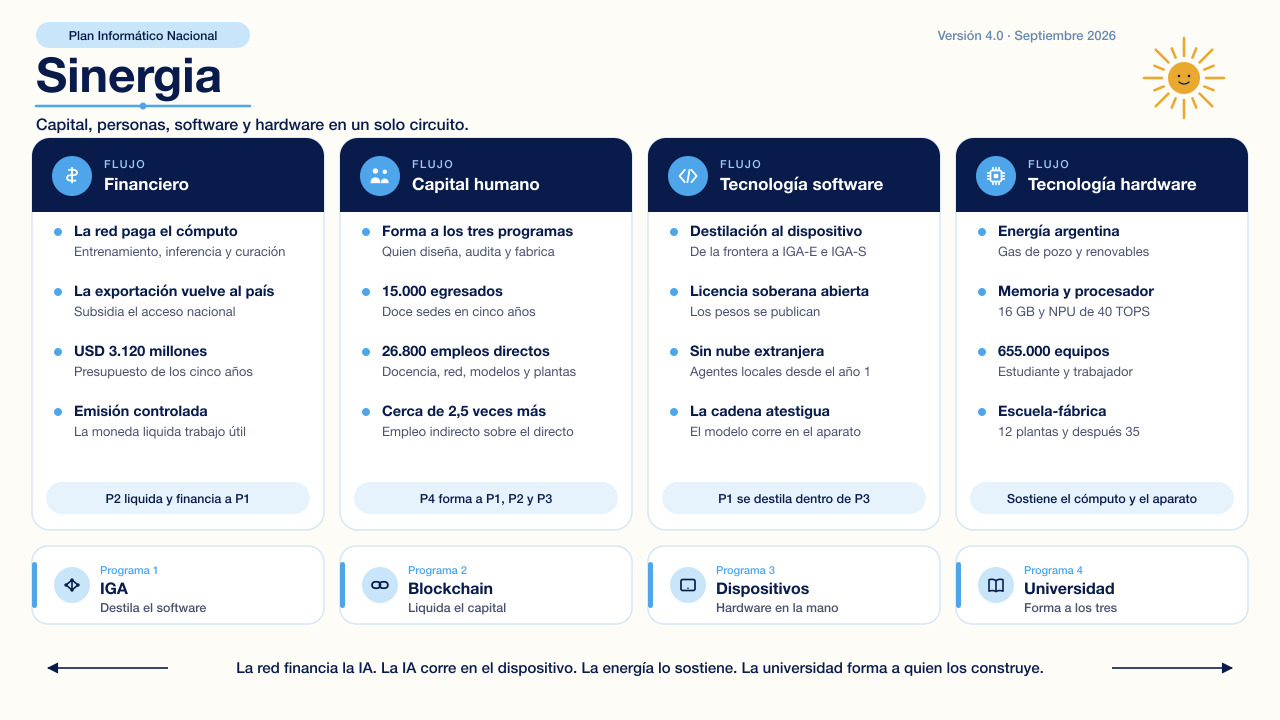
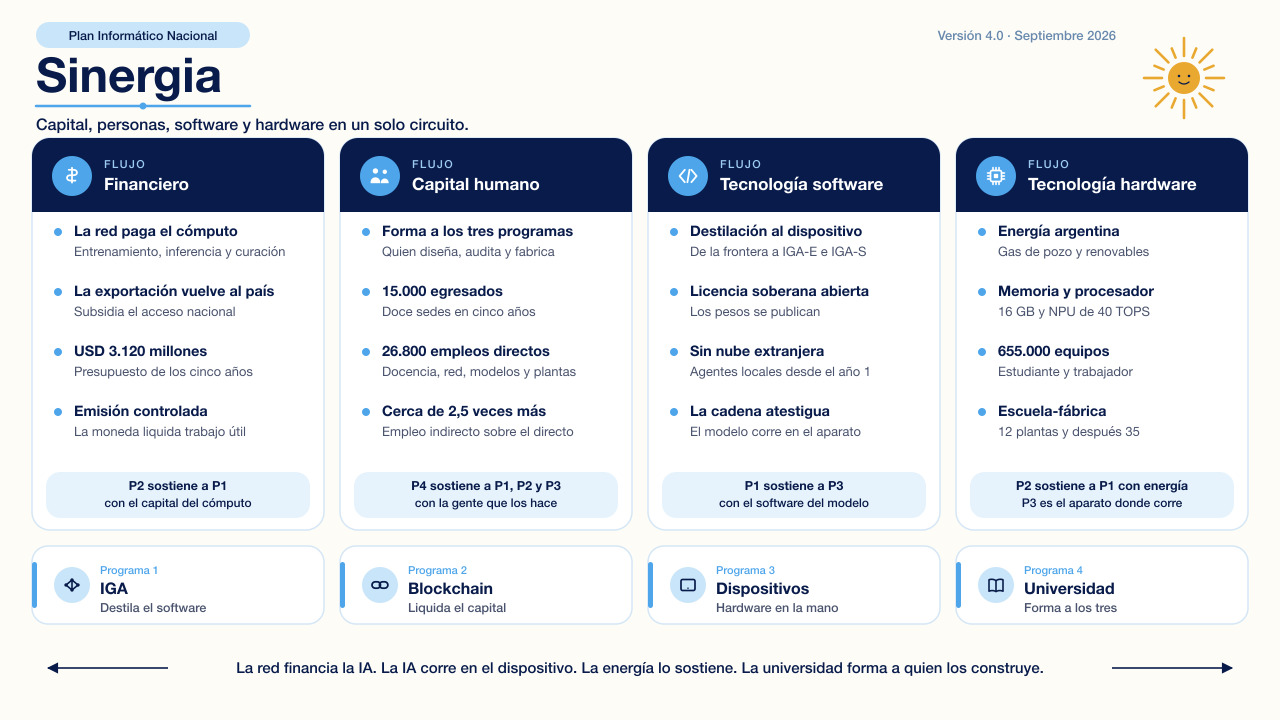
Name which program sustains which in the synergy infographic.

Changed region(s): [[0.2812, 0.6417, 0.7188, 0.7028], [0.75, 0.6417, 0.9688, 0.7028], [0.0312, 0.6417, 0.25, 0.7028]]

diff --git a/README.md b/README.md
@@ -10,7 +10,7 @@ El Plan no persigue un modelo denso de 200 mil millones de parámetros para igua
 
 ## Cómo se articulan
 
-La red del Programa 2 liquida, en cadena, el trabajo útil que entrena y evalúa la familia IGA. Esos modelos se destilan y corren, sin nube extranjera, en los dispositivos del Programa 3. La Universidad Hacker Nacional forma a quien diseña, audita y fabrica los tres. El excedente energético argentino sostiene el cómputo y el aparato.
+La red del Programa 2 liquida, en cadena, el trabajo útil que entrena y evalúa la familia IGA. Esos modelos se destilan y corren, sin nube extranjera, en los dispositivos del Programa 3. La Universidad Hacker Nacional forma a quien diseña, audita y fabrica los tres. El excedente energético de P2 sostiene el cómputo de P1. P3 es el aparato donde corre.
 
 ![Infografía de la sinergia: flujos financiero, de capital humano, de software y de hardware](infografias/pin-sinergia.jpg)
 
